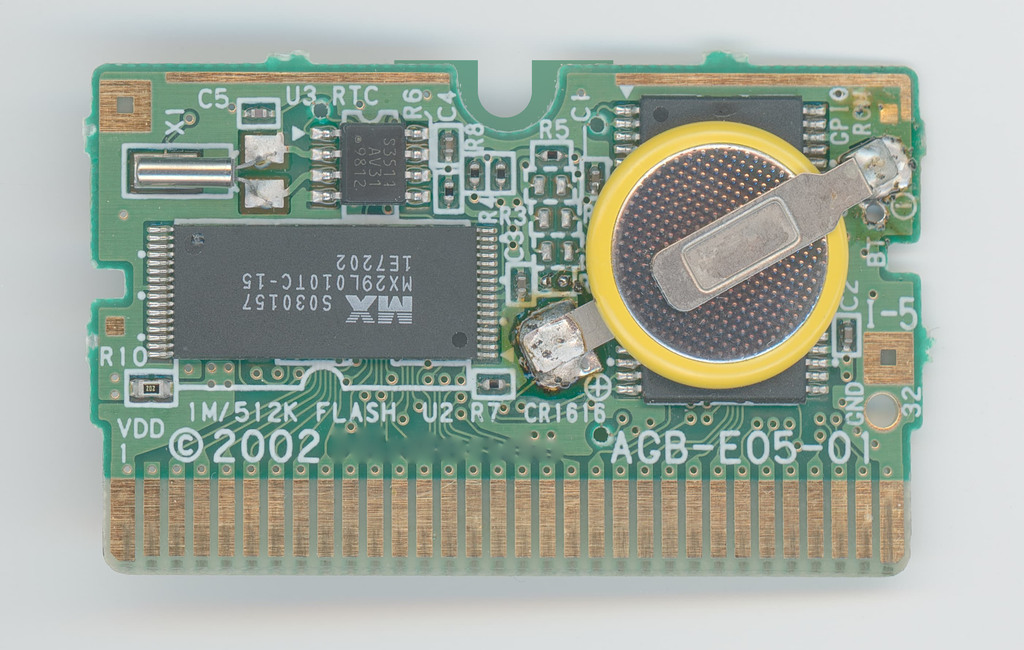
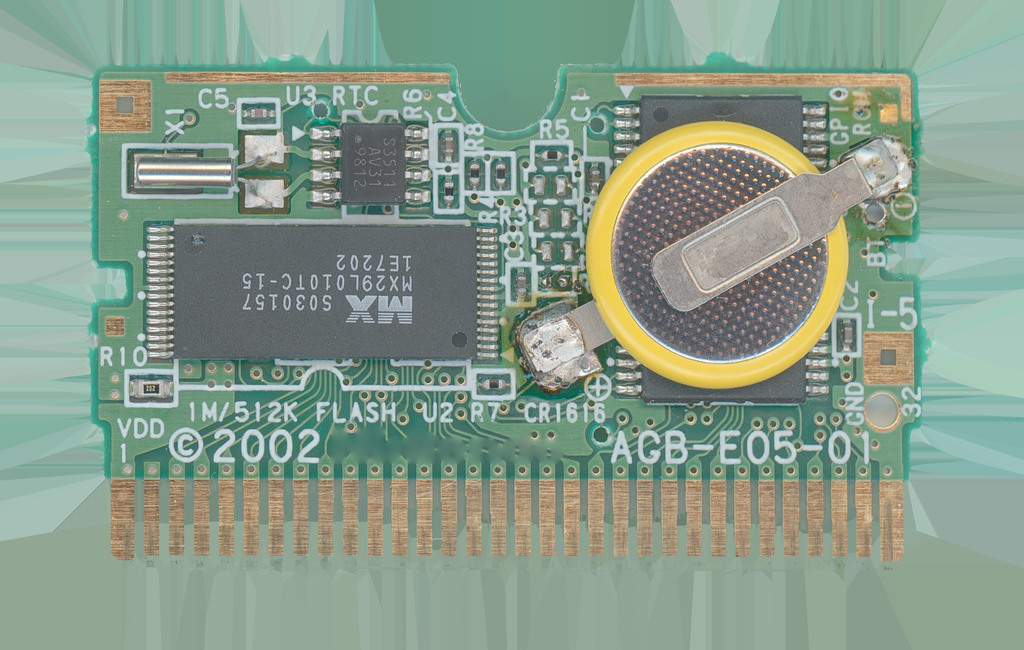
feat(gba): the board's photos run over the contact strip, with no white edge
Codex's update to the tintable GBA cartridge, copied in unchanged:

- The scanned contact strip is its own mesh (Connector_PCB) and wears the
  same two photos as the board above, at the same scale, so the silkscreen
  line and the photographed gold contacts run on across the join instead of
  meeting an older, darker scan halfway through "(c)2002 ... AGB-E05-01".
- The photographed background beyond the board outline and in the notches is
  filled with board green: no white fringe (it was 0.1-0.7 mm of the edges)
  and no mipmap halo. Measured: 0.00 mm of white in from every edge.
- The duplicate rear-shell surface under the marking panel is gone, so the
  panel no longer tints twice and reads as a darker rectangle.

KNOWN DEFECT, open with Codex: removing that surface left a ~0.2 mm ring
round the panel with no shell surface; the board shows through it as a thin
green line even on a solid cart (docs/dev/gba-cartridges.md).

The colours are refitted to the photos for the new interior (1-7 levels off
each target). gba_cart_tests 60: the contact strip joins the parts no colour
reaches and must share the board's photo material.

diff --git a/docs/dev/testing.md b/docs/dev/testing.md
@@ -68,7 +68,7 @@ debug build, 2026-08-27 — all passing):
 | `n64_vru_tests` | 37 | 30 s | the Voice Recognition Unit: no two coplanar faces on the dongle or the microphone, the device id a socket announces through the unit's own plug, seating in socket 4, the microphone in and out of the 3.5 mm jack, which way both cords leave, and the save round trip |
 | `n64_cart_tests` | 107 | 10 s | the N64 cartridge: regional bodies, that they carry no mark and no unmapped normal-mapped triangle, which half each moulded part belongs to, per-instance and per-half shell materials, flake parameters and normal maps, repeated switch and reset, the label helper, the coloured-cartridge lookup by header and MD5, the scraped region, and a spawned cartridge |
 | `gb_cart_tests` | 68 | 5 s | the Game Boy cartridge: that the model carries no mark and no unmapped normal-mapped triangle, which surfaces are moulding, colour with each moulding's shade and roughness kept, flake presets, the parts no colour reaches, the header lookup (Pokemon titles by market, dual-mode black, GBC-only grey), a spawned cartridge with its scraped sticker, and a shell forced from the spawn menu |
-| `gba_cart_tests` | 58 | 5 s | the Game Boy Advance cartridge: the tintable model imported solid, which surfaces are moulding, colour with baked roughness kept, the five clear Pokemon shells (filter + surface passes, colour, opacity, normal map, order-independent blends) and back to solid, the parts no colour reaches (label, contacts, and the photographed board with its chips and battery, all solid, photos at most 1024 wide), the header lookup (game code by market, maker `01` only), spawned cartridges, and a shell forced from the spawn menu |
+| `gba_cart_tests` | 60 | 5 s | the Game Boy Advance cartridge: the tintable model imported solid, which surfaces are moulding, colour with baked roughness kept, the five clear Pokemon shells (filter + surface passes, colour, opacity, normal map, order-independent blends) and back to solid, the parts no colour reaches (label, screw, and the photographed board, contact strip, chips and battery, all solid; board and strip share the photos, at most 1024 wide), the header lookup (game code by market, maker `01` only), spawned cartridges, and a shell forced from the spawn menu |
 | `speaker_tests` | 130 | 38 s | the surround rig (§2r): both cabinets' facing, the cabinet's own socket, a lead on each of the set's six outputs, the fold-down and its gains, the AUDIO OUTPUT key, the 1.2 m and 1 m stands, and the save round trip |
 | `xbox_tests` | 176 | 13 s | the Xbox (§2u): every table that makes `xbox` a machine (descriptor, disc/tray, ScreenScraper id, the Systematic art, the overlay `.info` and its BARE firmware paths), a core with a branch and no release, and lifting one game's saves off the shared hard disk — `Qcow2Image`, `FatxVolume`, `XboxDisc`, the deterministic archive. Builds every fixture itself (a sparse 8 GB qcow2, fragmented FATX chains, an XISO whose tree makes `default.xbe` a left turn). `unit/` is the Memory Unit's FATX, read AND written — the round trip is the oracle (a save put in comes out byte for byte), a 40-file save GROWS its folder past a 2 KB cluster's 32 entries, a delete gives all its room back, and a hard-disk lift inserts into a unit. `slots/` spawns a real pad and console: both of a pad's slots, which pads take a unit, staging into `memory_unit_port<N>[b].img`, every empty slot switched OFF, a drain that goes to the unit that FILLED the file and refuses one cut off inside a save. It writes two images into the REAL `save/memcards/xbox_mu/` under `__xbox_selftest_*` and removes exactly those. `torn/` is the point: each corruption must fail the WHOLE lift, and its unbroken-disk control is what proves the fixture lifts at all — a `PackedByteArray` read from a `Dictionary` is a copy, and poking one silently does nothing |
 

diff --git a/docs/dev/gba-cartridges.md b/docs/dev/gba-cartridges.md
@@ -5,8 +5,7 @@
 `RetroCartridge` builds a `gba` cartridge from
 `imported-assets/carts/game_boy_advance/gba_cart.glb` (`GbaCartShell.BODY`): the
 no-logos `gba_cartridge_tintable.glb` from `codex-photos/gba-cart`
-(`build_tintable.py`), 2,911 triangles, 60 × 35 × 9 mm, copied in unchanged. Eight
-meshes:
+(`build_tintable.py`), 60 × 35 × 9 mm, copied in unchanged. Nine meshes:
 
 - `Front_Shell`, `Rear_Shell` (materials `Tintable_Front_Plastic` /
   `Tintable_Rear_Plastic`: colour factor + normal + ORM, no colour texture). The
@@ -17,11 +16,22 @@ meshes:
   `Interior_RTC_Chip`, `Interior_Save_Battery`: the AGB-E05-01 board Ruby and
   Sapphire use, from FexCollects' photos (gbhwdb, CC BY-SA 4.0, credited in the
   About panel and `LICENSE-gba-cart.txt`), 1024 × 650, "Nintendo" silkscreen
-  removed. It continues the contact strip from z = −9.45 to +15 mm; the component
-  side faces the label, as the scanned contact strip's gold does. Board size,
-  notch (3.3 mm) and part heights are fitted to the photos, not measured.
-- `Opaque_Internal_Details`: the contact strip and the tri-wing screw.
+  removed, and the photographed background beyond the board filled with board
+  green (no white fringe, no mipmap halo). It continues from z = −9.45 to +15 mm;
+  the component side faces the label, as the scanned contact strip's gold does.
+  Board size, notch (3.3 mm) and part heights are fitted to the photos, not
+  measured.
+- `Connector_PCB`: the scanned contact strip (its geometry is the part fitted to
+  the slot), now wearing the same two photos at the same scale, so the
+  silkscreen and the photographed gold contacts run on across the join.
+- `Opaque_Internal_Details`: the tri-wing screw.
 - `Label`: white placeholder the scraped art is laid over (not UV-mapped).
+
+**OPEN — a crack round the rear marking panel.** When the duplicate shell surface
+under the panel was removed, a ring about 0.2 mm wide just outside the panel
+edge (x ±11.84, z 0.10–10.39 mm in Blender) was left with no rear-shell surface:
+rays there reach the board, so even a solid grey cart shows a thin green outline
+round the panel, and a clear one a teal one. Codex to close it.
 
 **The shells export solid** (`OPAQUE`, alpha 1): a cartridge is clear only when a
 preset makes it so. An earlier export was 82 % opaque and blended by default; if
@@ -83,6 +93,6 @@ roughness). `demetal` skips them: they carry a metallic map.
 **Forcing a shell**: `_has_spawn_options` includes `gba`, so a held ROM row opens
 `_show_cart_spawn_options` with the GBA swatches, as for GB.
 
-`gba_cart_tests` (58 cases): resources, model, surfaces, color, clear, kept,
+`gba_cart_tests` (60 cases): resources, model, surfaces, color, clear, kept,
 lookup, cartridge, forced. Mutation-tested: sending clear shells down the solid path fails 11
 cases, dropping the maker check fails `lookup/a Pokemon game code from another maker`.
